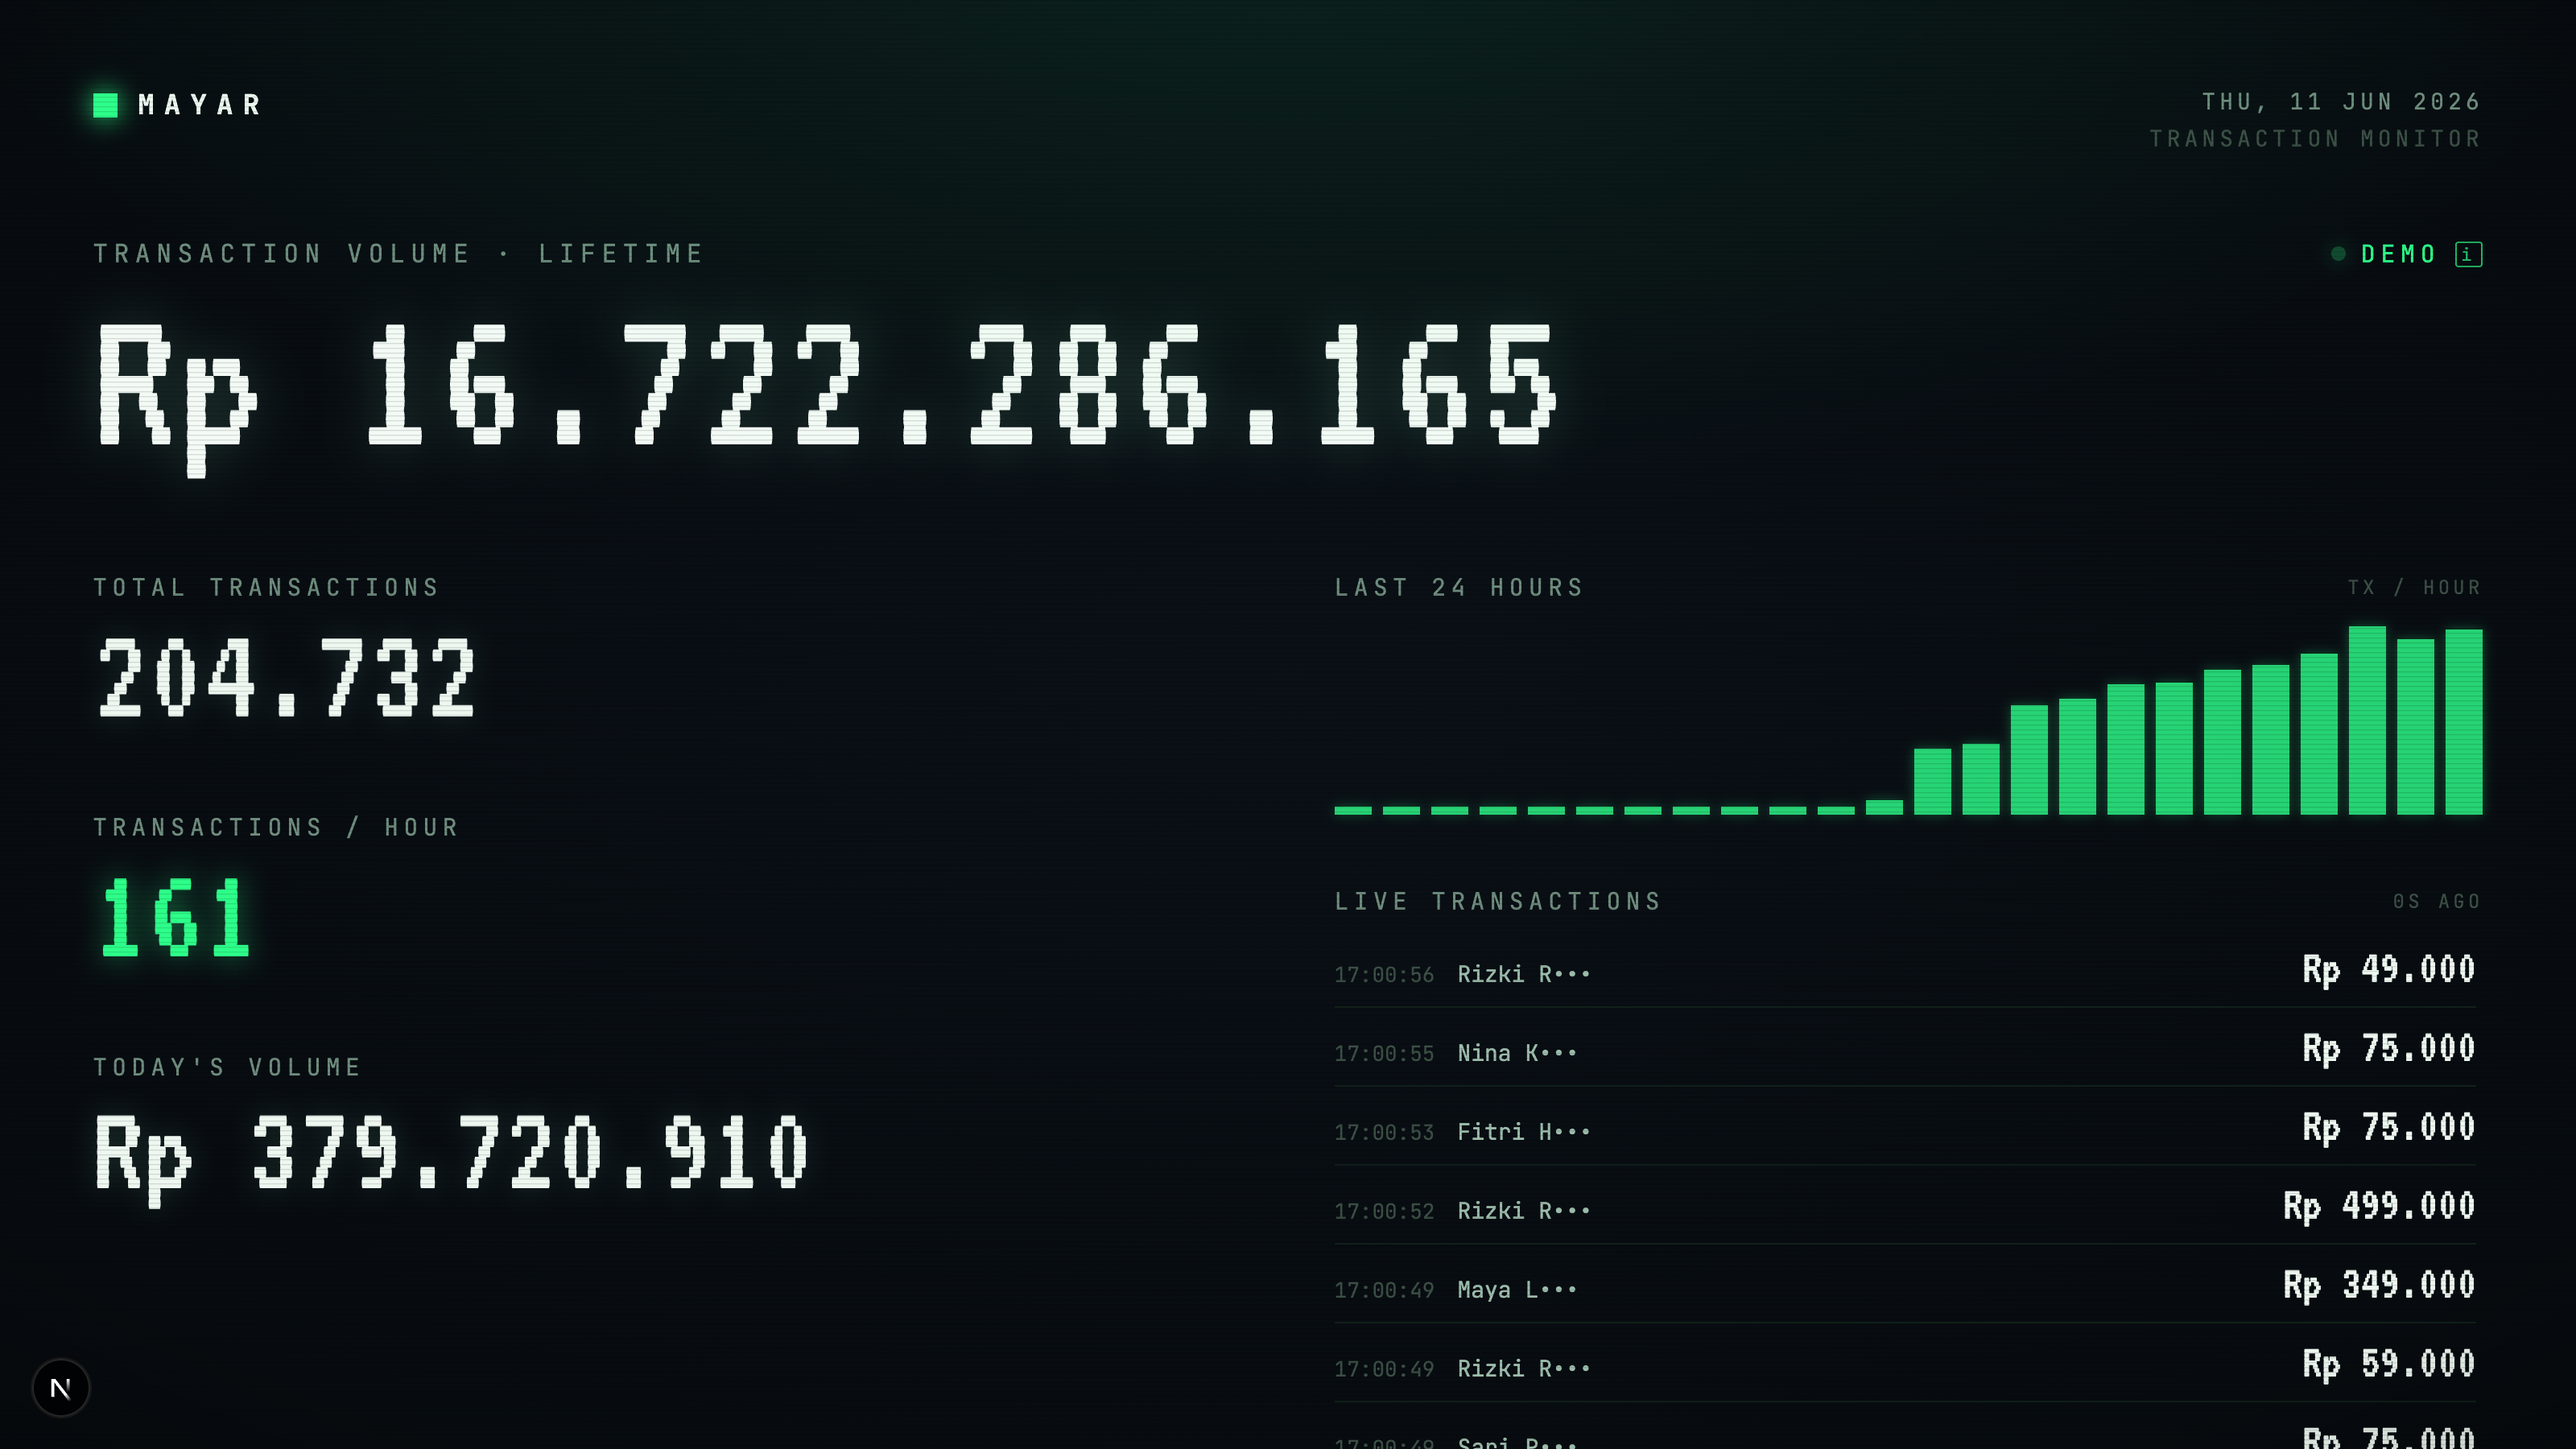
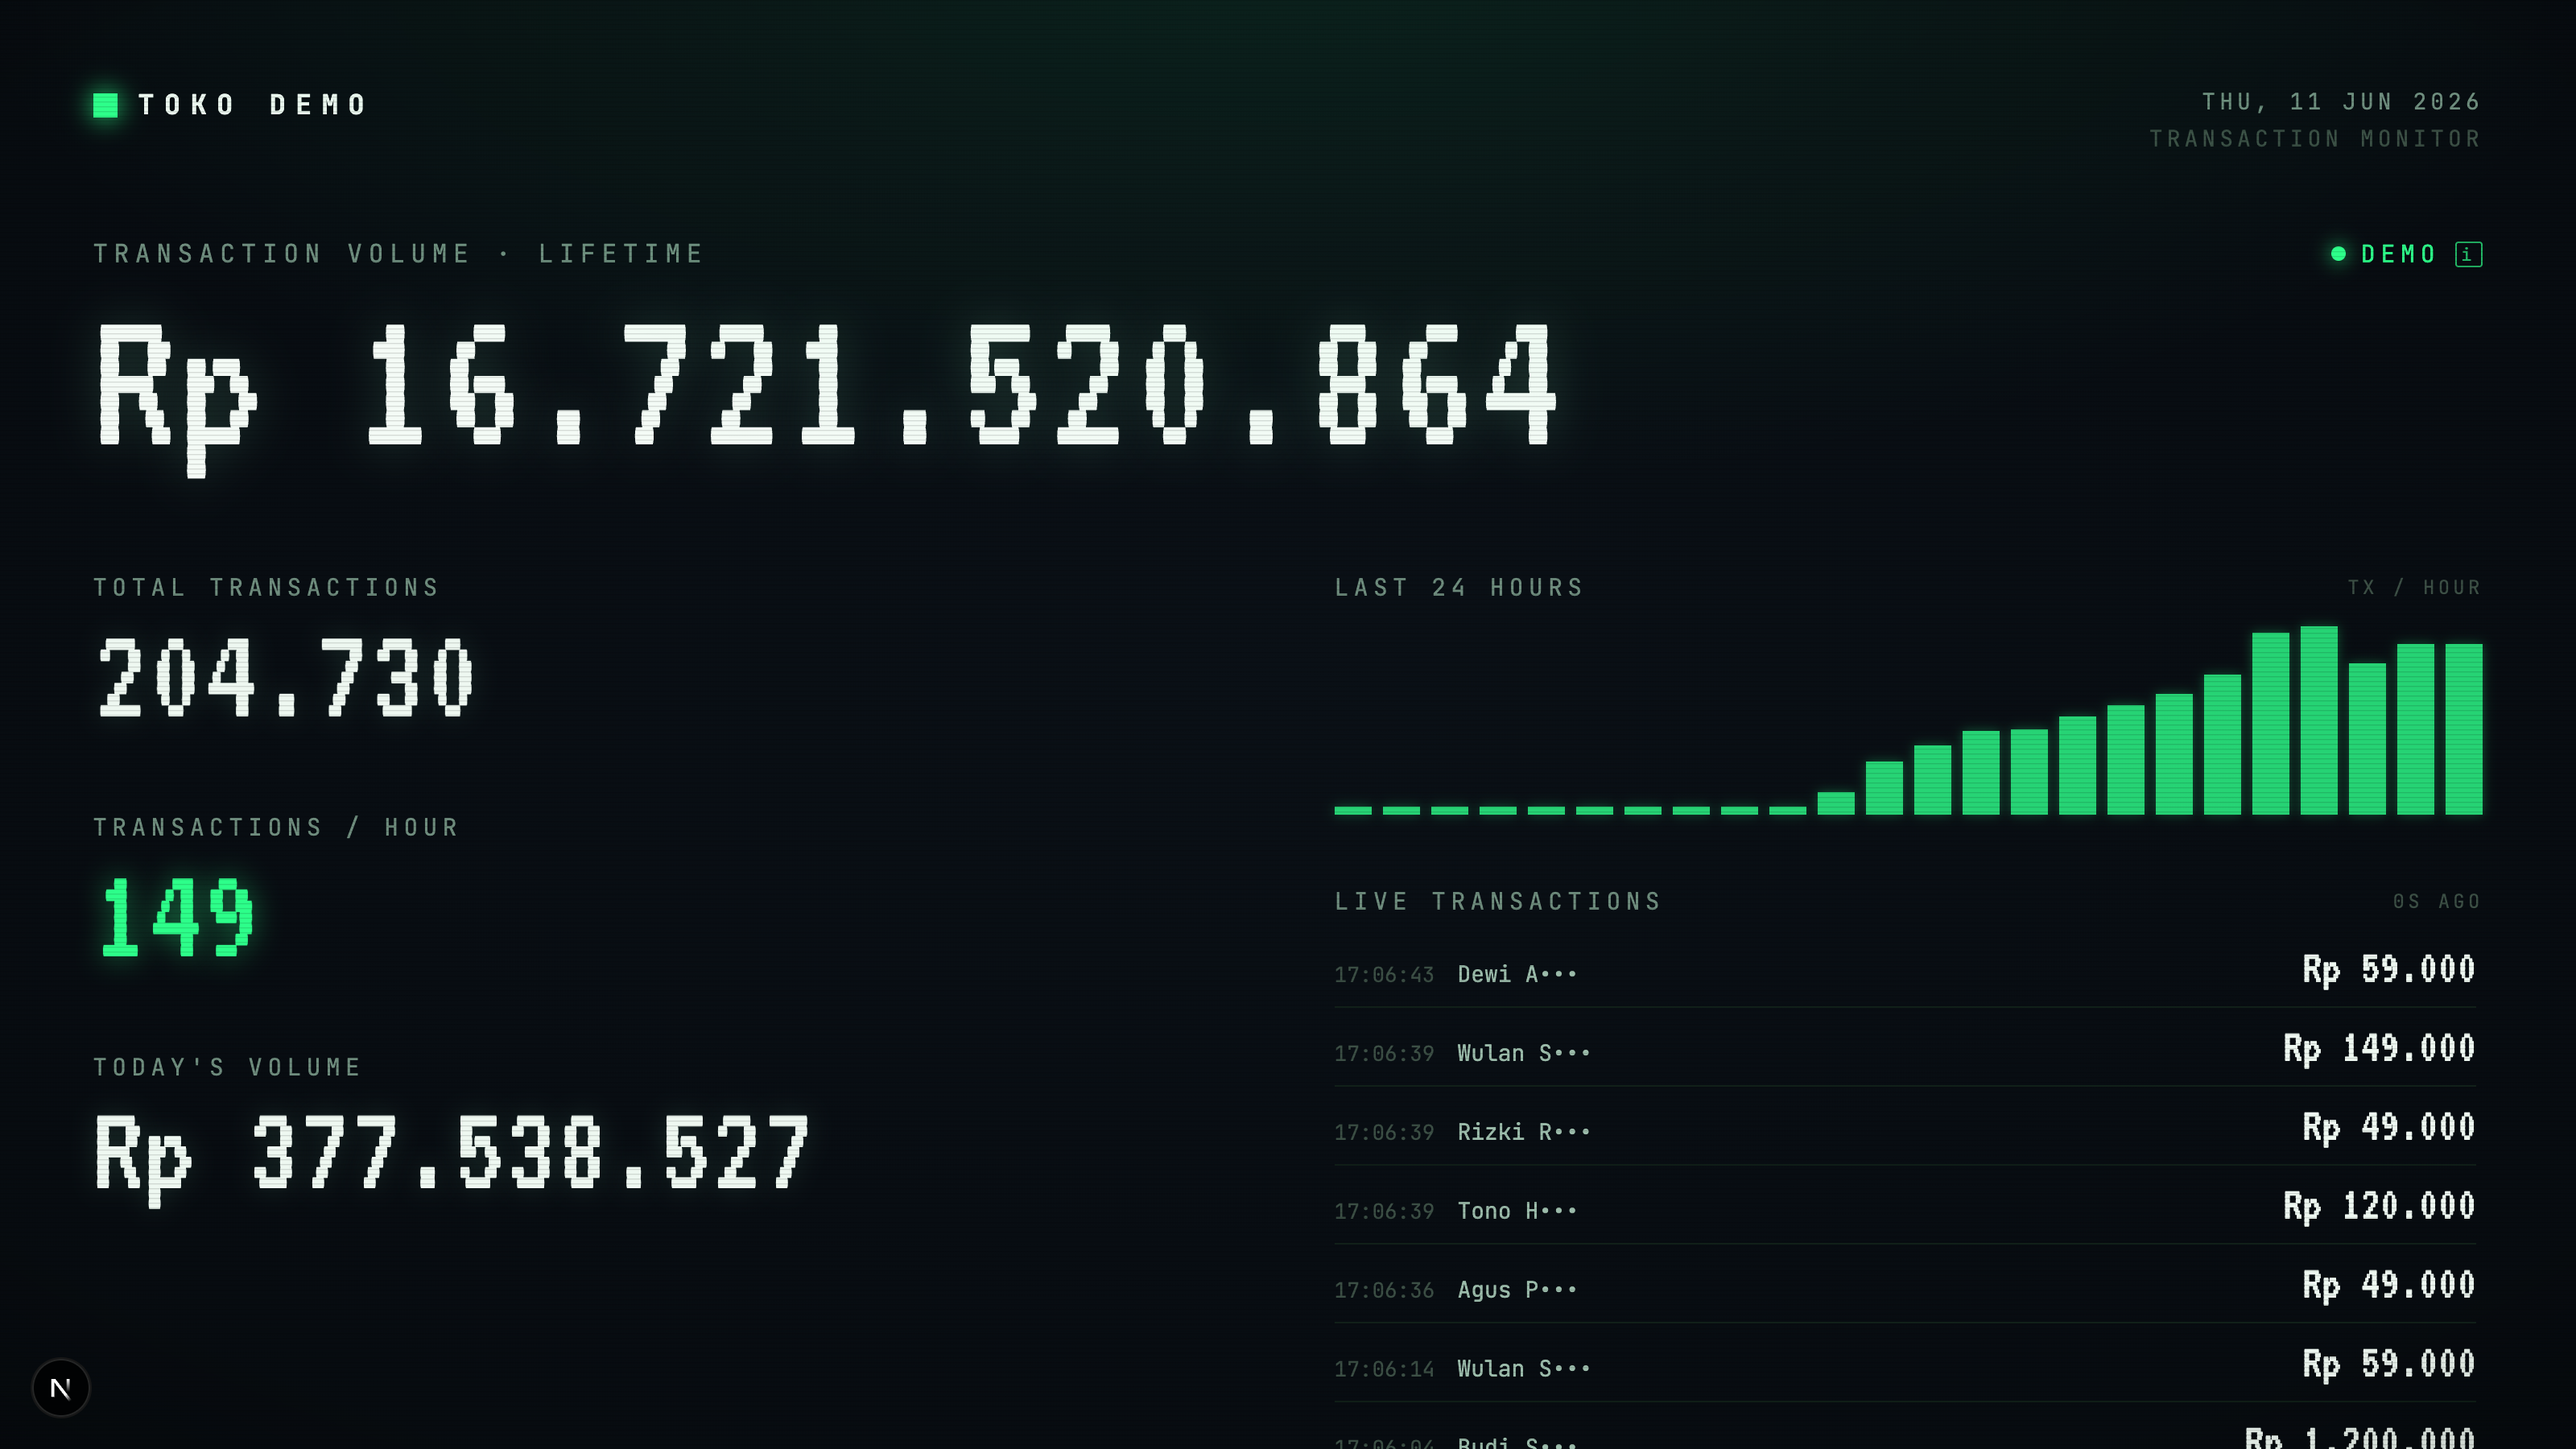
Show merchant name in header; add Powered by Mayar footer
Mayar has no profile endpoint, but API keys are JWTs carrying the
merchant identity — decode name/link locally from the stored key.
Demo mode shows TOKO DEMO; falls back to MAYAR if the key isn't a
parseable JWT. README screenshot regenerated.

diff --git a/app/page.tsx b/app/page.tsx
@@ -66,6 +66,21 @@ function hhmmss(ms: number) {
   }
 }
 
+/* Mayar API keys are JWTs whose payload carries the merchant identity
+   ({ name, link, sub, ... }) — there is no profile endpoint, so decode it
+   locally. Returns '' if the key isn't a parseable JWT. */
+function merchantFromKey(key: string): string {
+  try {
+    const part = key.split(".")[1];
+    const json = JSON.parse(
+      atob(part.replace(/-/g, "+").replace(/_/g, "/"))
+    );
+    return (json.name || json.link || "").toString();
+  } catch {
+    return "";
+  }
+}
+
 function maskName(s: string) {
   s = (s || "").trim();
   if (!s) return "Pelanggan";
@@ -142,6 +157,7 @@ export default function MayarMonitor() {
   const [buckets, setBuckets] = useState<{ count: number; vol: number }[]>([]);
   const [recent, setRecent] = useState<Tx[]>([]);
   const [lastUpdated, setLastUpdated] = useState(0);
+  const [merchantName, setMerchantName] = useState("");
   const [clock, setClock] = useState("");
   const [now, setNow] = useState(0);
   const [settings, setSettings] = useState<Settings>(DEFAULT_SETTINGS);
@@ -439,6 +455,7 @@ export default function MayarMonitor() {
     }
     a.lastSeenMs = nowMs;
     recompute();
+    setMerchantName("TOKO DEMO");
     setScreen("dashboard");
     setStatus("demo");
     demoTimer.current = setInterval(() => demoIncoming(), 3200);
@@ -459,6 +476,7 @@ export default function MayarMonitor() {
     if (demo) startDemo();
     else if (key) {
       agg.current.apiKey = key;
+      setMerchantName(merchantFromKey(key));
       setScreen("dashboard");
       startLive(stored.refreshSeconds);
     } else setScreen("setup");
@@ -543,6 +561,7 @@ export default function MayarMonitor() {
     localStorage.removeItem(AGG_LS);
     agg.current.apiKey = k;
     resetAgg();
+    setMerchantName(merchantFromKey(k));
     setScreen("dashboard");
     setSetupError("");
     setStatus("connecting");
@@ -563,6 +582,7 @@ export default function MayarMonitor() {
     resetAgg();
     agg.current.apiKey = "";
     setScreen("setup");
+    setMerchantName("");
     setKeyInput("");
     setSetupError("");
     setStatus("connecting");
@@ -731,7 +751,9 @@ export default function MayarMonitor() {
           <div className="dash-header">
             <div className="logo-row">
               <div className="logo-dot" />
-              <span className="logo-text">MAYAR</span>
+              <span className="logo-text">
+                {(merchantName || "MAYAR").toUpperCase()}
+              </span>
             </div>
             <div className="header-right">
               <div>{headerDate}</div>
@@ -823,6 +845,9 @@ export default function MayarMonitor() {
 
           <div className="dash-footer">
             <div className="footer-status">{footerStatus}</div>
+            <div className="footer-powered">
+              POWERED BY <span className="powered-mayar">MAYAR</span>
+            </div>
             <div className="footer-clock">{clock} WIB</div>
             <div className="footer-actions">
               {status === "error" && (

diff --git a/app/globals.css b/app/globals.css
@@ -563,6 +563,19 @@ input::placeholder {
   letter-spacing: 0.14em;
 }
 
+.footer-powered {
+  font-family: var(--font-mono), monospace;
+  color: #3c4f45;
+  font-size: clamp(10px, 0.86vw, 13px);
+  letter-spacing: 0.14em;
+}
+
+.powered-mayar {
+  color: var(--acc, #2dff8a);
+  font-weight: 700;
+  text-shadow: 0 0 10px color-mix(in srgb, var(--acc, #2dff8a) 45%, transparent);
+}
+
 .footer-clock {
   font-family: var(--font-mono), monospace;
   color: #6f8d7e;
